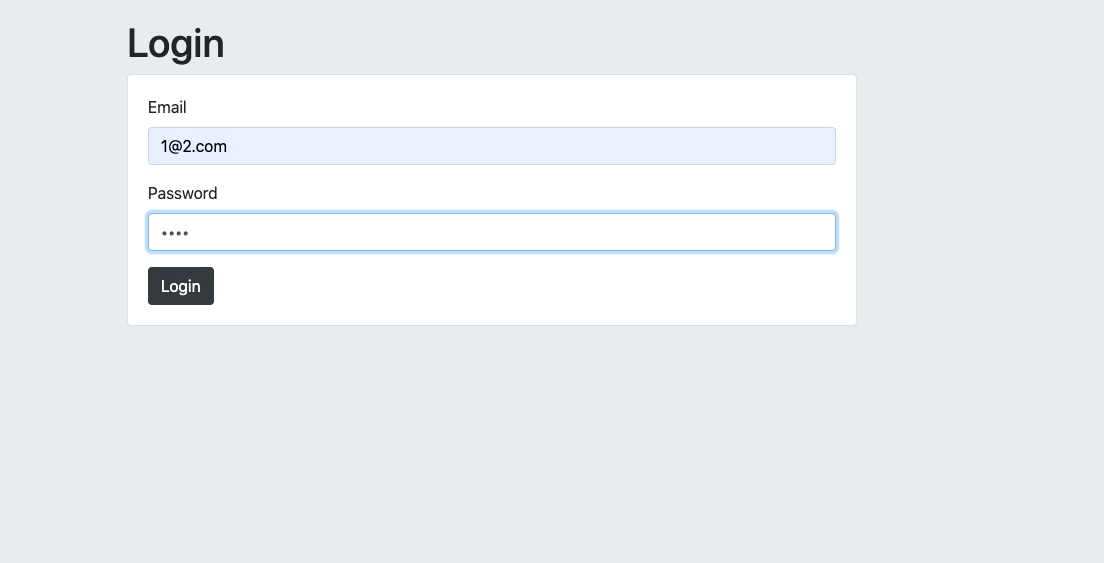
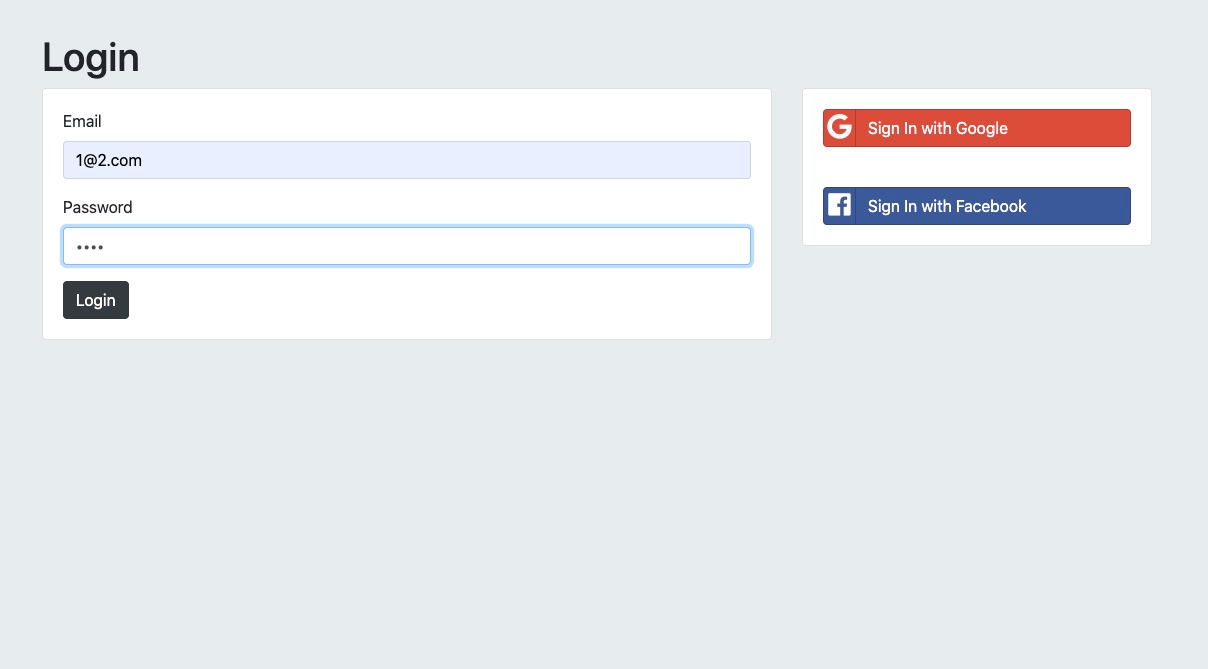
Facebook Oauth authentication added.  New screenshot for login screen

diff --git a/app.js b/app.js
@@ -11,8 +11,9 @@ const mongoose = require("mongoose")
 const session = require("express-session")
 const passport = require("passport")
 const passportLocalMongoose = require("passport-local-mongoose")
-// 5/ Google oauth authentication
+// 5/ Oauth authentication
 const GoogleStrategy = require("passport-google-oauth20").Strategy
+const FacebookStrategy = require("passport-facebook").Strategy
 const findOrCreate = require("mongoose-findorcreate")
 
 // const saltRounds = 10 // 3/ Hashing and salting password
@@ -44,7 +45,8 @@ mongoose.connect("mongodb://localhost:27017/userDB", {
 const userSchema = new mongoose.Schema({
   email: String,
   password: String,
-  googleId: String
+  googleId: String,
+  facebookId: String
 })
 
 // 1/ Authentication with encryption key and environment variable
@@ -56,7 +58,7 @@ const userSchema = new mongoose.Schema({
 // 4/ Cookies and session
 userSchema.plugin(passportLocalMongoose)
 
-// 5/ Google oauth authentication
+// 5/ Oauth authentication
 userSchema.plugin(findOrCreate)
 
 const User = mongoose.model("User", userSchema)
@@ -66,7 +68,7 @@ passport.use(User.createStrategy())
 // passport.serializeUser(User.serializeUser())
 // passport.deserializeUser(User.deserializeUser())
 
-// 5/ Google oauth authentication: user (de)serialization must comprise another Strategy than the local one
+// 5/ Oauth authentication: user (de)serialization must comprise another strategy than the local one
 passport.serializeUser(function(user, done) {
   done(null, user.id);
 })
@@ -77,19 +79,49 @@ passport.deserializeUser(function(id, done) {
   })
 })
 
-// 5/ Google oauth authentication
+// 5/ Oauth authentication
 passport.use(new GoogleStrategy({
-    clientID: process.env.CLIENT_ID,
-    clientSecret: process.env.CLIENT_SECRET,
+    clientID: process.env.GOOGLE_CLIENT_ID,
+    clientSecret: process.env.GOOGLE_CLIENT_SECRET,
     callbackURL: "http://localhost:3000/auth/google/secrets",
-    userProfileURL: "https://www.googleapis.com/oauth2/v3/userinfo"
+    userProfileURL: "https://www.googleapis.com/oauth2/v3/userinfo",
+    profileFields: ["emails"]
   },
   function(accessToken, refreshToken, profile, cb) {
     // console.log(profile)
 
+    const googleId = profile.id
+    const email = profile.emails[0].value
+
     User.findOrCreate({
-      googleId: profile.id
+      googleId: googleId
+    }, {
+      email: email
     }, function(err, user) {
+
+      return cb(err, user)
+    })
+  }
+))
+
+passport.use(new FacebookStrategy({
+    clientID: process.env.FB_CLIENT_ID,
+    clientSecret: process.env.FB_CLIENT_SECRET,
+    callbackURL: "http://localhost:3000/auth/facebook/secrets",
+    profileFields: ["emails"]
+  },
+  function(accessToken, refreshToken, profile, cb) {
+    // console.log(profile)
+
+    const facebookId = profile.id
+    const email = profile.emails[0].value
+
+    User.findOrCreate({
+      facebookId: facebookId
+    }, {
+      email: email
+    }, function(err, user) {
+
       return cb(err, user)
     })
   }
@@ -143,17 +175,31 @@ app.route('/register')
     //   })
   })
 
-// 5/ Google oauth authentication
+// 5/ Oauth authentication
 app.route("/auth/google")
 
   .get(passport.authenticate(
     "google", {
-      scope: ["profile"]
-    }
-  ))
+      scope: ["profile", "email"]
+    }))
 
 app.get("/auth/google/secrets",
-  passport.authenticate('google', {
+  passport.authenticate("google", {
+    failureRedirect: "/login"
+  }),
+  function(req, res) {
+    // Successful authentication, redirect home.
+    res.redirect("/secrets")
+  })
+
+app.route("/auth/facebook")
+
+  .get(passport.authenticate("facebook", {
+    scope: ["email"]
+  }))
+
+app.get("/auth/facebook/secrets",
+  passport.authenticate("facebook", {
     failureRedirect: "/login"
   }),
   function(req, res) {
@@ -162,7 +208,7 @@ app.get("/auth/google/secrets",
   })
 
 // 4/ Cookies and session
-app.route('/secrets')
+app.route("/secrets")
 
   .get(function(req, res) {
 
@@ -175,7 +221,7 @@ app.route('/secrets')
   })
 
 // 4/ Cookies and session
-app.route('/login')
+app.route("/login")
 
   .get(function(req, res) {
     res.render("login")
@@ -219,7 +265,7 @@ app.route('/login')
     // })
   })
 
-app.route('/logout')
+app.route("/logout")
 
   .get(function(req, res) {
     req.logout();
